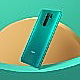
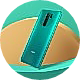
修改标题及素材

Changed region(s): [[0.0, 0.0, 1.0, 1.0]]

diff --git a/Games/SyntheticMiPhones/index.html b/Games/SyntheticMiPhones/index.html
@@ -5,7 +5,7 @@
     <meta charset="utf-8">
 
     <!-- 微信搜索公众号『 程序员鱼皮 』，学习编程技术，发现更多好玩的项目！ -->
-    <title>合成大西瓜</title>
+    <title>合成小米机</title>
 
     <!--http://www.html5rocks.com/en/mobile/mobifying/-->
     <meta name="viewport" content="width=device-width,user-scalable=no,initial-scale=1, minimum-scale=1,maximum-scale=1" />
@@ -113,23 +113,10 @@
         judgeLanTitle();
 
         function judgeLanTitle() {
-
-            //        console.log("window.navigator.language",window.navigator.language);
-
             if (window.navigator.language == "zh-CN" || window.navigator.language == "zh-cn") {
-                document.title = "小游戏：合成大西瓜";
-            } else if (window.navigator.language == "zh-TW") {
-                document.title = "小遊戲：合成大西瓜";
-            } else if (window.navigator.language == "zh-HK") {
-                document.title = "小遊戲：合成大西瓜";
-            } else if (window.navigator.language == "ko-KR") {
-                document.title = "작은 놀이：큰 수박 을 합성 하 다";
-            } else if (window.navigator.language == "ja-JP") {
-                document.title = "ミニゲーム：合成スイカ";
-            } else if (window.navigator.language == "th-TH") {
-                document.title = "เกมเล็กๆ：แตงโมสังเคราะห์";
+                document.title = "合成小米机";
             } else {
-                document.title = "Little game：Synthetic watermelon";
+                document.title = "Synthetic Xiaomi phones";
             }
 
 
